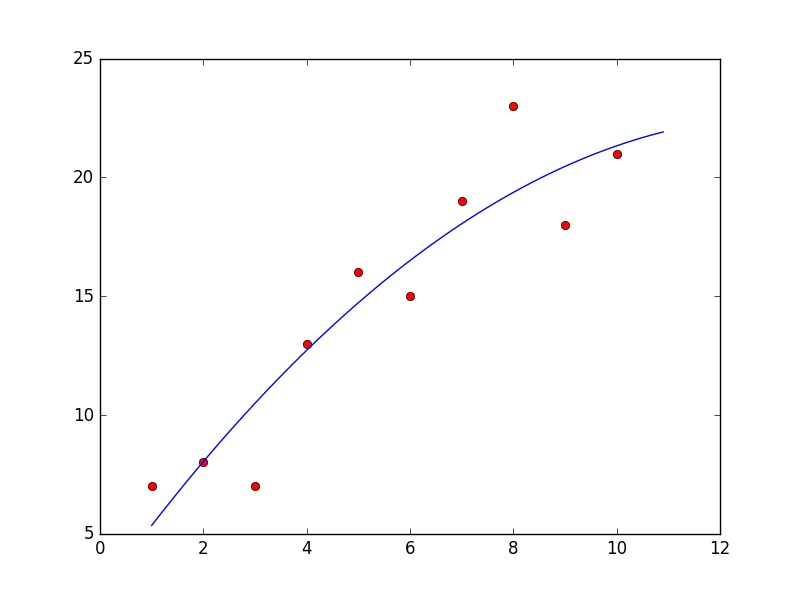
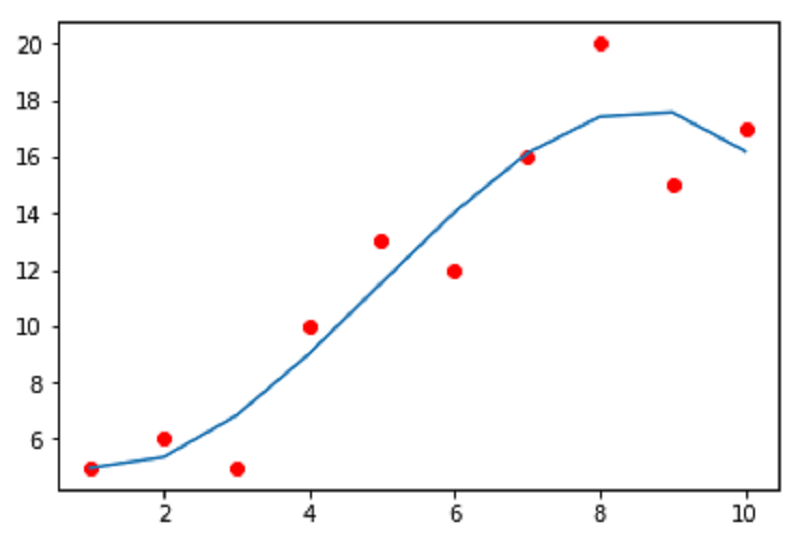
added blog changes

diff --git a/_posts/2016-10-12-Underfit-Overfit.md b/_posts/2016-10-12-Underfit-Overfit.md
@@ -1,5 +1,5 @@
 ---
-title: "Machine Learning Part 5: Underfitting and Overfitting Problems"
+title: "Going Far with Linear Regression"
 header:
   teaser: tutorials/underfit-overfit/poly_2_test.jpg
 categories:
@@ -13,11 +13,9 @@ tags:
   - problems
 ---
 <script src="https://cdn.mathjax.org/mathjax/latest/MathJax.js?config=TeX-AMS-MML_HTMLorMML" type="text/javascript"></script>
-Here we are again, in the fifth post of Machine Learning tutorial series. Today I will talk about two common problems you may face in Machine Learning: Underfitting and Overfitting. Wait! There is something wrong, isn't it? - You may wonder...
+Today I will dig deeper into Linear Regression, and together we will do some coding. We will improve the quality of the Model. By doing that, I am actually helping you to go into some concept which is more general, and can be applied not only in Linear Regression, but every spot where Machine Learning takes place.
 
-Of course I remember promising you in the previous post, that today I will dig deeper into Linear Regression, and together we will do some coding. Actually, I intended to name today's post "Implementing Linear Regression" or something, but I soon realized that it would be inappropriate. Good news is today's post will mainly focus on implementation of Linear Regression, and what we can do to improve the quality of the Model. By doing that, I am actually leading you to go into some concept which is more general, and can be applied not only in Linear Regression, but every spot which Machine Learning takes place.
-
-That is enough of talking. First, let's get our hands dirty. If you went through my previous post, you would now have everything set up. But if you didn't, you might want to take a look at it here: [Setting Up Python Environment](https://chunml.github.io/ChunML.github.io/tutorial/Setting-Up-Python-Environment-For-Computer-Vision-And-Machine-Learning/){:target="_blank"}.
+If you went through my previous post, you would now have everything set up. But if you didn't, you might want to take a look at it here: [Setting Up Python Environment Computer Vision and Machine Learning(Ubuntu)](https://iidsa.in/tutorial/Setting-Up-Python-Environment-For-Computer-Vision-And-Machine-Learning/){:target="_blank"}.
 
 ### Implementing Linear Regression
 
@@ -35,28 +33,28 @@ import numpy as np
 import matplotlib.pyplot as plt
 {% endhighlight %}
 
-We are not using only *LinearRegression*. We will work with arrays, so here I also imported *numpy* for dealing with arrays. We will also draw some graphs to visualize the data, so that's why I imported *pyplot*, a great module for graph drawing.
+We are not using only *LinearRegression*. We will work with arrays, so here I also imported *numpy* for dealing with arrays. We will also draw some graphs to visualize the data, so that's why I imported *pyplot*, a great module for drawing graphs.
 
 Remember the data I used in the previous post on Linear Regression? I will show it right below for you:
 
 | X       | y           |
 | ------------- |-------------| 
-| 1      | 7 | 
-| 2      | 8 |
-| 3      | 7 |
-| 4      | 13 |
-| 5      | 16 |
-| 6      | 15 |
-| 7      | 19 |
-| 8      | 23 |
-| 9      | 18 |
-| 10      | 21 |
+| 1      | 5 | 
+| 2      | 6 |
+| 3      | 5 |
+| 4      | 10 |
+| 5      | 13 |
+| 6      | 12 |
+| 7      | 16 |
+| 8      | 20 |
+| 9      | 15 |
+| 10      | 17 |
 
 Now let's use that to prepare our training data:
 
 {% highlight python %} 
 X = np.arange(1, 11).reshape(10, 1)
-y = np.array([7, 8, 7, 13, 16, 15, 19, 23, 18, 21]).reshape(10, 1)
+y = np.array([5, 6, 5, 10, 13, 12, 16, 20, 15, 17]).reshape(10, 1)
 {% endhighlight %}
 
 Nearly every Machine Learning library requires data to be formatted in the way which each row is one training example (or testing example), and each column represents one feature's data. So we have to reshape our data accordingly.
@@ -86,10 +84,10 @@ Our training data is quite simple, so the learning process finished so fast as i
 
 {% highlight python %} 
 model.coef_
-array([[ 1.77575758]])
+array([[ 1.59]])
 
 model.intercept_
-array([ 4.93333333])
+array([ 3.13])
 {% endhighlight %}
 
 Obviously, you can get more information through other attributes of model object, but now we will only focus on *coef_*, which stores the weight parameter, and *intercept_*, which stores the bias parameter.
@@ -103,7 +101,7 @@ a = model.coef_ * X + model.intercept_
 Now let's draw all \\(X\\), \\(y\\) and \\(a\\) on the same plot. Here we got a straight line, which fit the data better than what we did before (which is easy to understand, since we only went through 4 iterations).
 
 {% highlight python %} 
-plt.plot(X, y, 'ro', X, a)
+plt.plot(X, y,X,y,'ro',  X, a)
 axes = plt.gca()
 axes.set_ylim([0, 30])
 plt.show()
@@ -126,13 +124,13 @@ We cannot always evaluate something just by seeing it, right? We need something 
 
 And you can see that, our Model now has the accuracy of 85% over the training data. Commonly,  we demand a higher accuracy, let's say 90% or 95%. So by looking at the current accuracy, we can tell that our Model is not performing as we are expecting. So let's think about an improvement. But how can we do that?
 
-Remember I told you about Features in the first [Post](https://chunml.github.io/ChunML.github.io/tutorial/Machine-Learning-Definition/){:target="_blank"}? Features are something we use to distinguish one object from others. So obviously, if we have more Features, then we will likely have a better fit model, since it can receive more necessary information for training. But how we can acquire more Features?
+Remember I told you about Features in the first [Post](https://iidsa.in/tutorial/Machine-Learning-Definition/){:target="_blank"}? Features are something we use to distinguish one object from others. So obviously, if we have more Features, then we will likely have a better fit model, since it can receive more necessary information for training. But how we can acquire more Features?
 
 #### Polynomial Features
 The easiest way to add more Features, is to computing *polynomial features* from the provided features. It means that if we have \\(X\\), then we can use \\(X^2\\), \\(X^3\\), etc as additional features. So let's use this approach and see if we can improve the current Model. First, we have to modify our \\(X\\) matrix by adding \\(X^2\\):
 
 {% highlight python %} 
-X = np_c[X, X**2]
+X = np.c_[X, X**2]
 X
 array([[   1,    1],
        [   2,    4],
@@ -150,12 +148,12 @@ Similar to previous step, let's train our new Model, then compute the prediction
 
 {% highlight python %} 
 model.fit(X, y)
-x = np.arange(1, 11, 0.1)
-x = np.c_[x, x**2]
+x = np.arange(1, 11)
+x = np.c_[x, x**2, x**3]
 a = np.dot(X, model.coef_.transpose()) + model.intercept_
 {% endhighlight %}
 
-Mathematically, we will now have \\(a=\theta_0 + \theta_1X + \theta_2X^2\\). Note that now we have more complicated matrix *X*, so we will have to use the *dot* function. An error will occur if we just use the multiply operator like above. I also created a new \\(x\\) variable, which ranges from 1 to 10, but with 0.1 step. Use the new \\(x\\) to compute \\(a\\) will result in a smoother graph of \\(a\\), since \\(a\\) is no longer a straight line anymore.
+Mathematically, we will now have \\(a=\theta_0 + \theta_1X + \theta_2X^2\\). Note that now we have more complicated matrix *X*, so we will have to use the *dot* function. An error will occur if we just use the multiply operator like above.
 
 Now let's plot things out and see what we got with new feature matrix:
 
@@ -170,16 +168,16 @@ As you can see, now we obtain a curved line, which seems to fit our training dat
 
 {% highlight python %} 
 model.score(X, y)
-0.87215506914951546
+0.90
 {% endhighlight %}
 
-You see that? Now we got a new accuracy of 87%, which is a huge improvement right? At this point, you may think that we can improve it a lot more by continuing to add more polynomial features to it. Well, don't guess. Let's just do it. This time we will add up to degree 9.
+You see that? Now we got a new accuracy of 90%, which is a huge improvement right? At this point, you may think that we can improve it a lot more by continuing to add more polynomial features to it. Well, don't guess. Let's just do it. This time we will add up to degree 7.
 
 {% highlight python %} 
 X = np.arange(1, 11)
-X = np.c_[X, X**2, X**3, X**4, X**5, X**6, X**7, X**8, X**9]
-x = np.arange(1, 11, 0.1)
-x = np.c_[x, x**2, x**3, x**4, x**5, x**6, x**7, x**8, x**9]
+X = np.c_[X, X**2, X**3, X**4, X**5, X**6, X**7]
+x = np.arange(1, 11)
+x = np.c_[x, x**2, x**3, x**4, x**5, x**6, x**7]
 
 model.fit(X, y)
 a = np.dot(x, model.coef_.transpose()) + model.intercept_
@@ -196,12 +194,12 @@ Now we just obtained a new curve which fit our training data perfectly. Let's us
 
 {% highlight python %} 
 model.score(X, y)
-0.99992550472904074
+0.99
 {% endhighlight %}
 
 Wow, let's see what we have here, an accuracy of 100%. This is real magic, you may think.
 
-But that is just where the tragic begins...
+But that is just where the tragedy begins...
 
 ### OVERFITTING & UNDERFITTING
 
@@ -227,7 +225,7 @@ plt.show()
 
 ![full_data](/images/tutorials/underfit-overfit/full_data.jpg)
 
-Let's see what happens if we use the Model obtained from degree 9 polynomial features:
+Let's see what happens if we use the Model obtained from degree 7 polynomial features:
 
 {% highlight python %} 
 plt.plot(X, y, 'ro', x[:, 0], a)
@@ -238,7 +236,7 @@ plt.show()
 
 ![poly_9_overfit](/images/tutorials/underfit-overfit/poly_9_overfit.jpg)
 
-Do you see what I am seeing? What a tragic! It doesn't seem to fit the new data at all! We don't even feel the need of computing the accuracy on the new data! So what the hell this is all about?
+Do you see what I am seeing? What a tragedy! It doesn't seem to fit the new data at all! We don't even feel the need of computing the accuracy on the new data! So what the hell this is all about?
 
 As I told you before, in the first post, that we only provided a fixed set of training data, and the Model will have to deal with new data which it has never seen before. New data, which may vary in unpredictable way in real life, penalized our trained Model this time! In Machine Learning term, we call it **OVERFITTING** problem (or High Variance). Overfitting, as the name is self-explained itself, means that the Model fits the data very well when we prodived a set of data containing a lot of features. We can see that the Model tends to memorize the data, rather than to learn from it, which makes it unable to predict the new data.
 
@@ -278,7 +276,6 @@ x = np.arange(1, 16, 0.1)
 x = np.c_[x, x**2]
 model.fit(X[:10], y[:10])
 model.score(X[10:], y[10:])
--0.51814820280729812
 
 a = np.dot(x, model.coef_.transpose()) + model.intercept_
 plt.plot(X[:, 0], y, 'ro', x[:, 0], a)
@@ -292,12 +289,11 @@ plt.show()
 #### Model 3
 {% highlight python %} 
 X = np.arange(1, 16).reshape(15, 1)
-X = np.c_[X, X**2, X**3, X**4, X**5, X**6, X**7, X**8, X**9]
+X = np.c_[X, X**2, X**3, X**4, X**5, X**6, X**7]
 x = np.arange(1, 16, 0.1)
-x = np.c_[x, x**2, x**3, x**4, x**5, x**6, x**7, x**8, x**9]
+x = np.c_[x, x**2, x**3, x**4, x**5, x**6, x**7]
 model.fit(X[:10], y[:10])
 model.score(X[10:], y[10:])
--384608869887696.81
 
 a = np.dot(x, model.coef_.transpose()) + model.intercept_
 plt.plot(X[:, 0], y, 'ro', x[:, 0], a)
@@ -316,4 +312,4 @@ The second model may not fit as well as the third model, but it is the one that 
 
 So today, through implementing Linear Regression, I led you through the most common problems you may face when working with Machine Learning, which are *Underfitting* and *Overfitting*. I also showed you the easiest way to avoid those problems, which is always splitting the dataset into two parts: one for training purpose, and one for testing.
 
-Hope you find today's post helpful and you now put a further step into Machine Learning world, I think. There is no stopping as you has gone this far. In the next post, I will continue with **Logistic Regression**, which is an extremely important algorithm that you must understand, because it is the key which leads you to the most powerful learning technique nowadays: Neural Network. So stay updated, and I will be with you soon. See you!
+Hope you find this post helpful and put a further step into Machine Learning world. There is no stopping as you have gone this far. In the next post, I will continue with **Logistic Regression**, it is the key which leads you to the most powerful learning technique nowadays: Neural Network. So stay updated, and I will be with you soon. See you!

diff --git a/_pages/terms.md b/_pages/terms.md
@@ -5,26 +5,26 @@ title: "Terms and Privacy Policy"
 modified: 2016-10-01
 ---
 
-1. **Acceptance The Use Of [shubhradeepnandi's Machine Learning Page](https://shubhradeepnandi.github.io/) Terms and Conditions**   
-Your  access  to  and  use  of  [shubhradeepnandi's Machine Learning Page](https://shubhradeepnandi.github.io/) is  subject exclusively to these Terms and Conditions. You will not use the Website for any purpose that is unlawful or prohibited by these Terms and Conditions. By using  the  Website  you  are  fully  accepting  the  terms,  conditions  and disclaimers contained in this notice. If you do not accept these Terms and Conditions you must immediately stop using the Website.
+1. **Acceptance The Use Of [shubhradeepnandi's Machine Learning Page](http://iidsa.in/) Terms and Conditions**   
+Your  access  to  and  use  of  [shubhradeepnandi's Machine Learning Page](http://iidsa.in/) is  subject exclusively to these Terms and Conditions. You will not use the Website for any purpose that is unlawful or prohibited by these Terms and Conditions. By using  the  Website  you  are  fully  accepting  the  terms,  conditions  and disclaimers contained in this notice. If you do not accept these Terms and Conditions you must immediately stop using the Website.
 
 2. **CREDIT CARD DETAILS**  
-[shubhradeepnandi's Machine Learning Page](https://shubhradeepnandi.github.io/) will never ask for your credit card details and we advice our customers to not enter their credit cards details on [shubhradeepnandi's Machine Learning Page](https://shubhradeepnandi.github.io/) website or by submitting such details in any other form.
+[shubhradeepnandi's Machine Learning Page](http://iidsa.in/) will never ask for your credit card details and we advice our customers to not enter their credit cards details on [shubhradeepnandi's Machine Learning Page](http://iidsa.in/) website or by submitting such details in any other form.
 
 3. **LEGAL ADVICE**  
-The contents of [shubhradeepnandi's Machine Learning Page](https://shubhradeepnandi.github.io/) website do not constitute advice and should not be relied upon in making or refraining from making, any decision.   
-All material contained on [shubhradeepnandi's Machine Learning Page](https://shubhradeepnandi.github.io/) is provided without any or warranty of any kind. You use the material on [shubhradeepnandi's Machine Learning Page](https://shubhradeepnandi.github.io/) at your own discretion
+The contents of [shubhradeepnandi's Machine Learning Page](http://iidsa.in/) website do not constitute advice and should not be relied upon in making or refraining from making, any decision.   
+All material contained on [shubhradeepnandi's Machine Learning Page](http://iidsa.in/) is provided without any or warranty of any kind. You use the material on [shubhradeepnandi's Machine Learning Page](http://iidsa.in/) at your own discretion
 
 4. **CHANGE OF USE**  
-[shubhradeepnandi's Machine Learning Page](https://shubhradeepnandi.github.io/) reserves the right to:   
-4.1 &nbsp;change or remove (temporarily or permanently) the Website or any part of it without notice and you confirm that [Chun's Machine Learning Page](https://shubhradeepnandi.github.io/) shall not be liable to you for any such change or removal and.   
+[shubhradeepnandi's Machine Learning Page](http://iidsa.in/) reserves the right to:   
+4.1 &nbsp;change or remove (temporarily or permanently) the Website or any part of it without notice and you confirm that [Chun's Machine Learning Page](http://iidsa.in/) shall not be liable to you for any such change or removal and.   
 4.2 &nbsp;change these Terms and Conditions at any time, and your continued use of the Website following any changes shall be deemed to be your acceptance of such change.
 
 5. **Links to Third Party Websites**  
-[shubhradeepnandi's Machine Learning Page](https://shubhradeepnandi.github.io/) Website may include links to third party websites that are controlled and maintained by others. Any link to other websites is not an endorsement of such websites and you acknowledge and agree that we are not responsible for the content or availability of any such sites.
+[shubhradeepnandi's Machine Learning Page](http://iidsa.in/) Website may include links to third party websites that are controlled and maintained by others. Any link to other websites is not an endorsement of such websites and you acknowledge and agree that we are not responsible for the content or availability of any such sites.
 
 6. **COPYRIGHT**  
-6.1 All  copyright,  trade  marks  and  all  other  intellectual  property  rights  in  the Website and its content (including without limitation the Website design, text, graphics and all software and source codes connected with the Website) are owned by or   licensed to [shubhradeepnandi's Machine Learning Page](https://shubhradeepnandi.github.io/) or otherwise used by [shubhradeepnandi's Machine Learning Page](https://shubhradeepnandi.github.io/) as permitted by law.   
+6.1 All  copyright,  trade  marks  and  all  other  intellectual  property  rights  in  the Website and its content (including without limitation the Website design, text, graphics and all software and source codes connected with the Website) are owned by or   licensed to [shubhradeepnandi's Machine Learning Page](http://iidsa.in/) or otherwise used by [shubhradeepnandi's Machine Learning Page](http://iidsa.in/) as permitted by law.   
 6.2 In accessing the Website you agree that you will access the content solely for your personal, non-commercial use. None of the content may be downloaded, copied, reproduced, transmitted, stored, sold or distributed without the prior written consent of the copyright holder. This excludes the downloading, copying and/or printing of pages of the Website for personal, non-commercial home use only.
 
 7. **LINKS TO AND FROM OTHER WEBSITES**  
@@ -37,12 +37,12 @@ All material contained on [shubhradeepnandi's Machine Learning Page](https://shu
 
 8. **DISCLAIMERS AND LIMITATION OF LIABILITY**  
 8.1 The Website is provided on an AS IS and AS AVAILABLE basis without any representation or endorsement made and without warranty of any kind whether express or implied, including but not limited to the implied warranties of satisfactory quality, fitness for a particular purpose, non-infringement, compatibility, security and accuracy.   
-8.2 To the extent permitted by law, [shubhradeepnandi's Machine Learning Page](https://shubhradeepnandi.github.io/) will not be liable for any indirect or consequential loss or damage whatever (including without limitation loss of business, opportunity, data, profits) arising out of or in connection with the use of the Website.   
-8.3 [shubhradeepnandi's Machine Learning Page](https://shubhradeepnandi.github.io/) makes no warranty that the functionality of the Website will be uninterrupted or error free, that defects will be corrected or that the Website or the server that makes it available are free of viruses or anything else which may be harmful or destructive.   
-8.4 &nbsp;Nothing in these Terms and Conditions shall be construed so as to exclude or limit the liability of [shubhradeepnandi's Machine Learning Page](https://shubhradeepnandi.github.io/) for death or personal injury as a result of the negligence of [shubhradeepnandi's Machine Learning Page](https://shubhradeepnandi.github.io/) or that of its employees or agents.
+8.2 To the extent permitted by law, [shubhradeepnandi's Machine Learning Page](http://iidsa.in/) will not be liable for any indirect or consequential loss or damage whatever (including without limitation loss of business, opportunity, data, profits) arising out of or in connection with the use of the Website.   
+8.3 [shubhradeepnandi's Machine Learning Page](http://iidsa.in/) makes no warranty that the functionality of the Website will be uninterrupted or error free, that defects will be corrected or that the Website or the server that makes it available are free of viruses or anything else which may be harmful or destructive.   
+8.4 &nbsp;Nothing in these Terms and Conditions shall be construed so as to exclude or limit the liability of [shubhradeepnandi's Machine Learning Page](http://iidsa.in/) for death or personal injury as a result of the negligence of [shubhradeepnandi's Machine Learning Page](http://iidsa.in/) or that of its employees or agents.
 
 9. **INDEMNITY**  
-You agree to indemnify and hold [shubhradeepnandi's Machine Learning Page](https://shubhradeepnandi.github.io/) and its employees and agents harmless from and against all liabilities, legal fees, damages, losses, costs and other expenses in relation to any claims or actions brought against [shubhradeepnandi's Machine Learning Page](https://shubhradeepnandi.github.io/) arising out of any breach by you of these Terms and Conditions or other liabilities arising out of your use of this Website.
+You agree to indemnify and hold [shubhradeepnandi's Machine Learning Page](http://iidsa.in/) and its employees and agents harmless from and against all liabilities, legal fees, damages, losses, costs and other expenses in relation to any claims or actions brought against [shubhradeepnandi's Machine Learning Page](http://iidsa.in/) arising out of any breach by you of these Terms and Conditions or other liabilities arising out of your use of this Website.
 
 10. **SEVERANCE**  
 If any of these Terms and Conditions should be determined to be invalid, illegal or unenforceable for any reason by any court of competent jurisdiction then such Term or Condition shall be severed and the remaining Terms and Conditions shall survive and remain in full force and effect and continue to be binding and enforceable.
